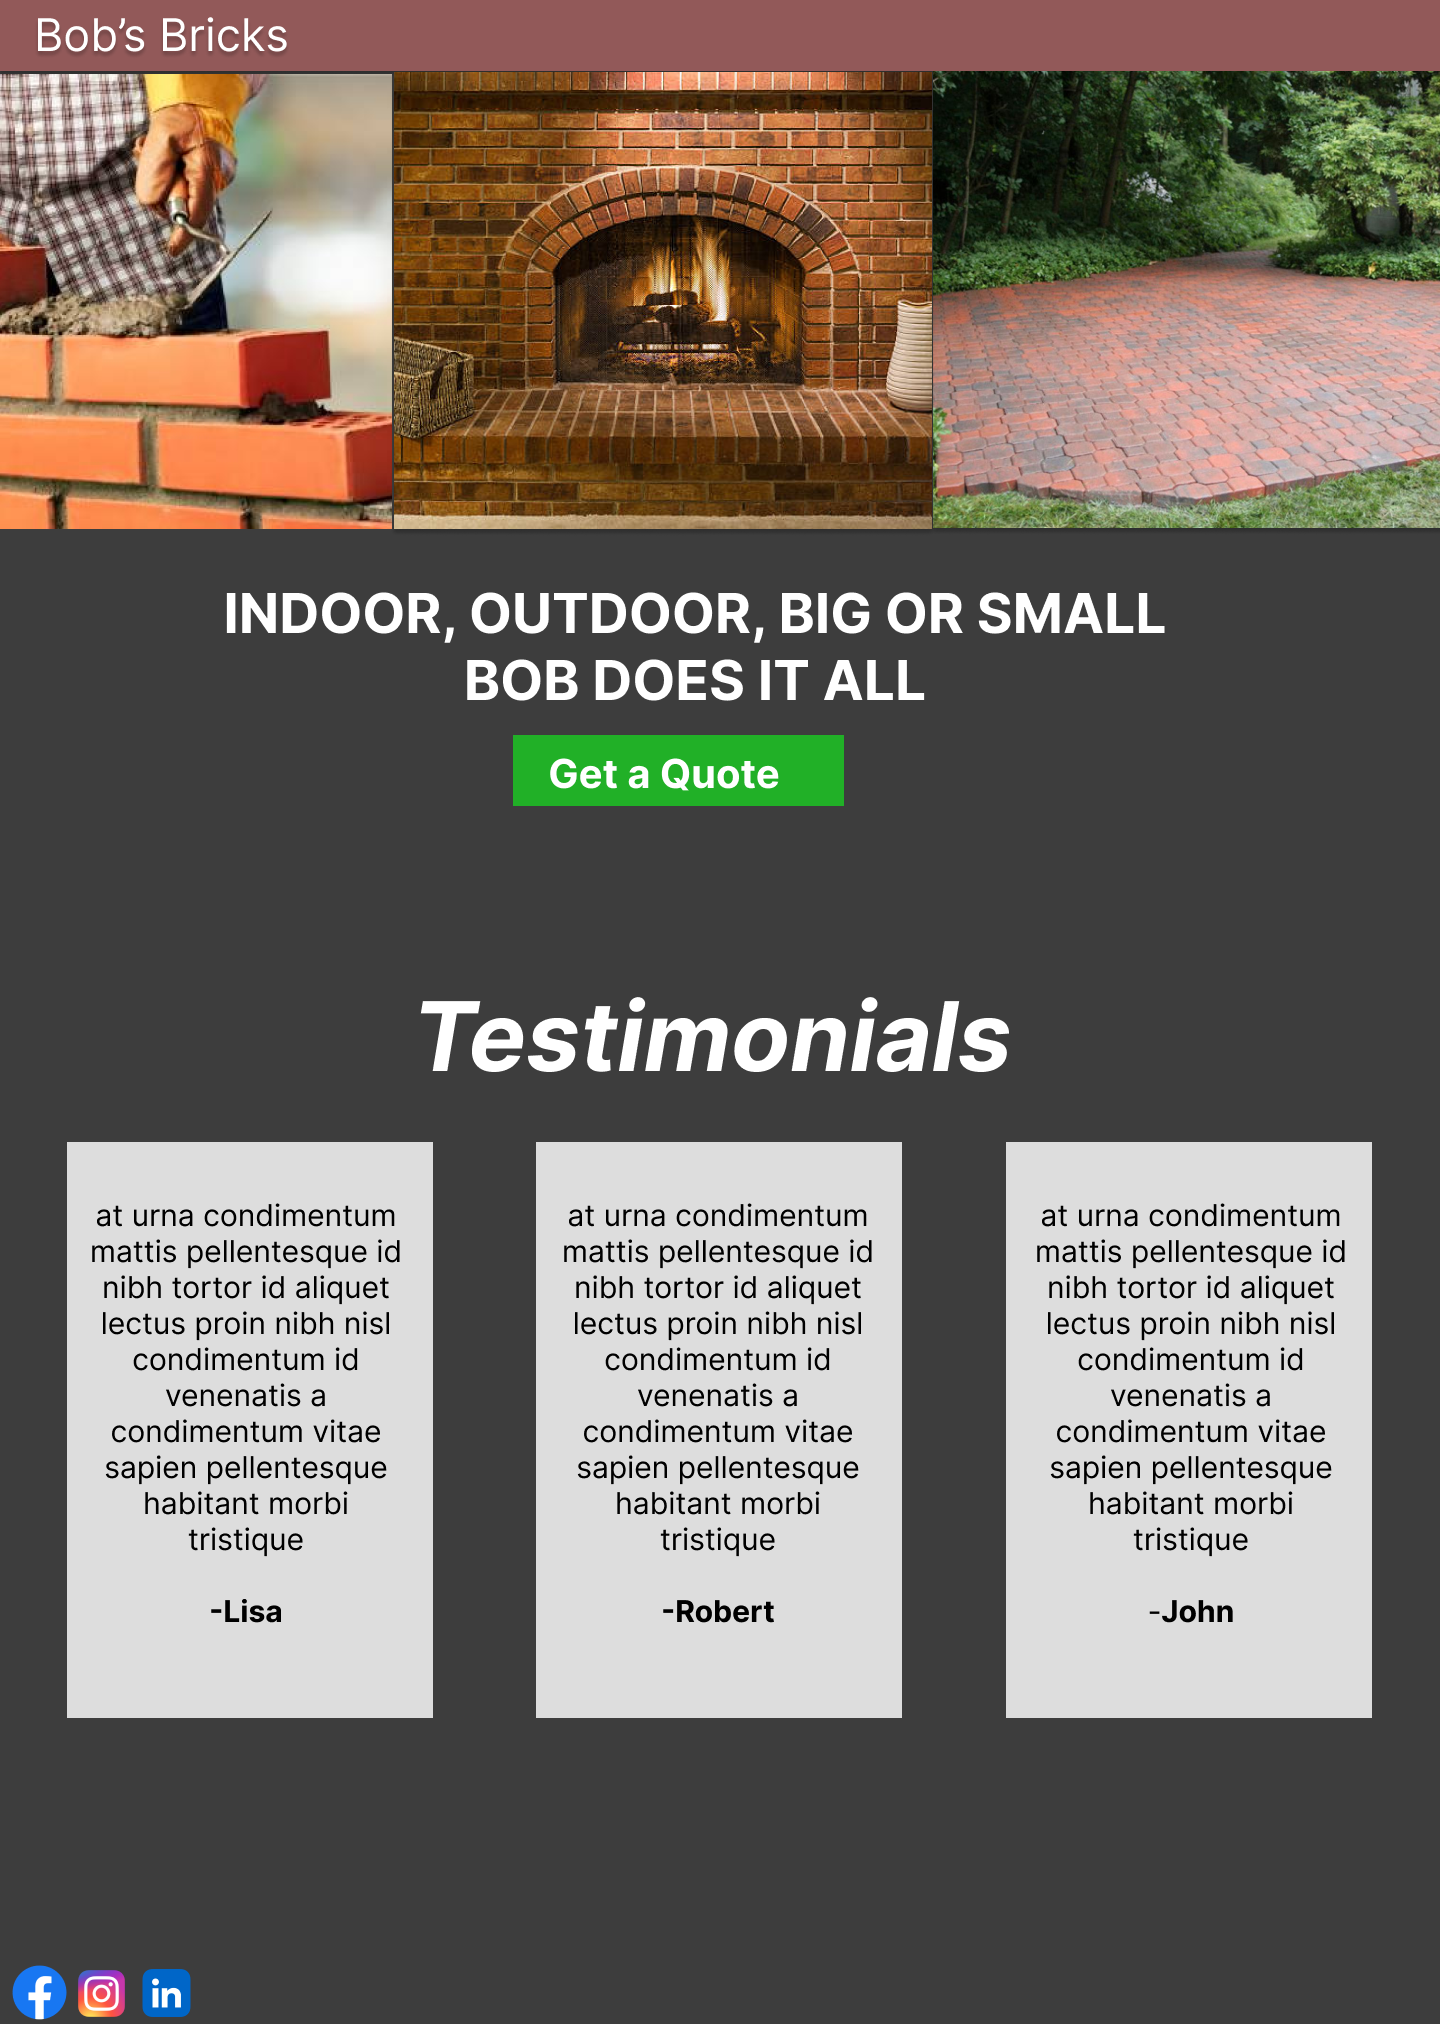
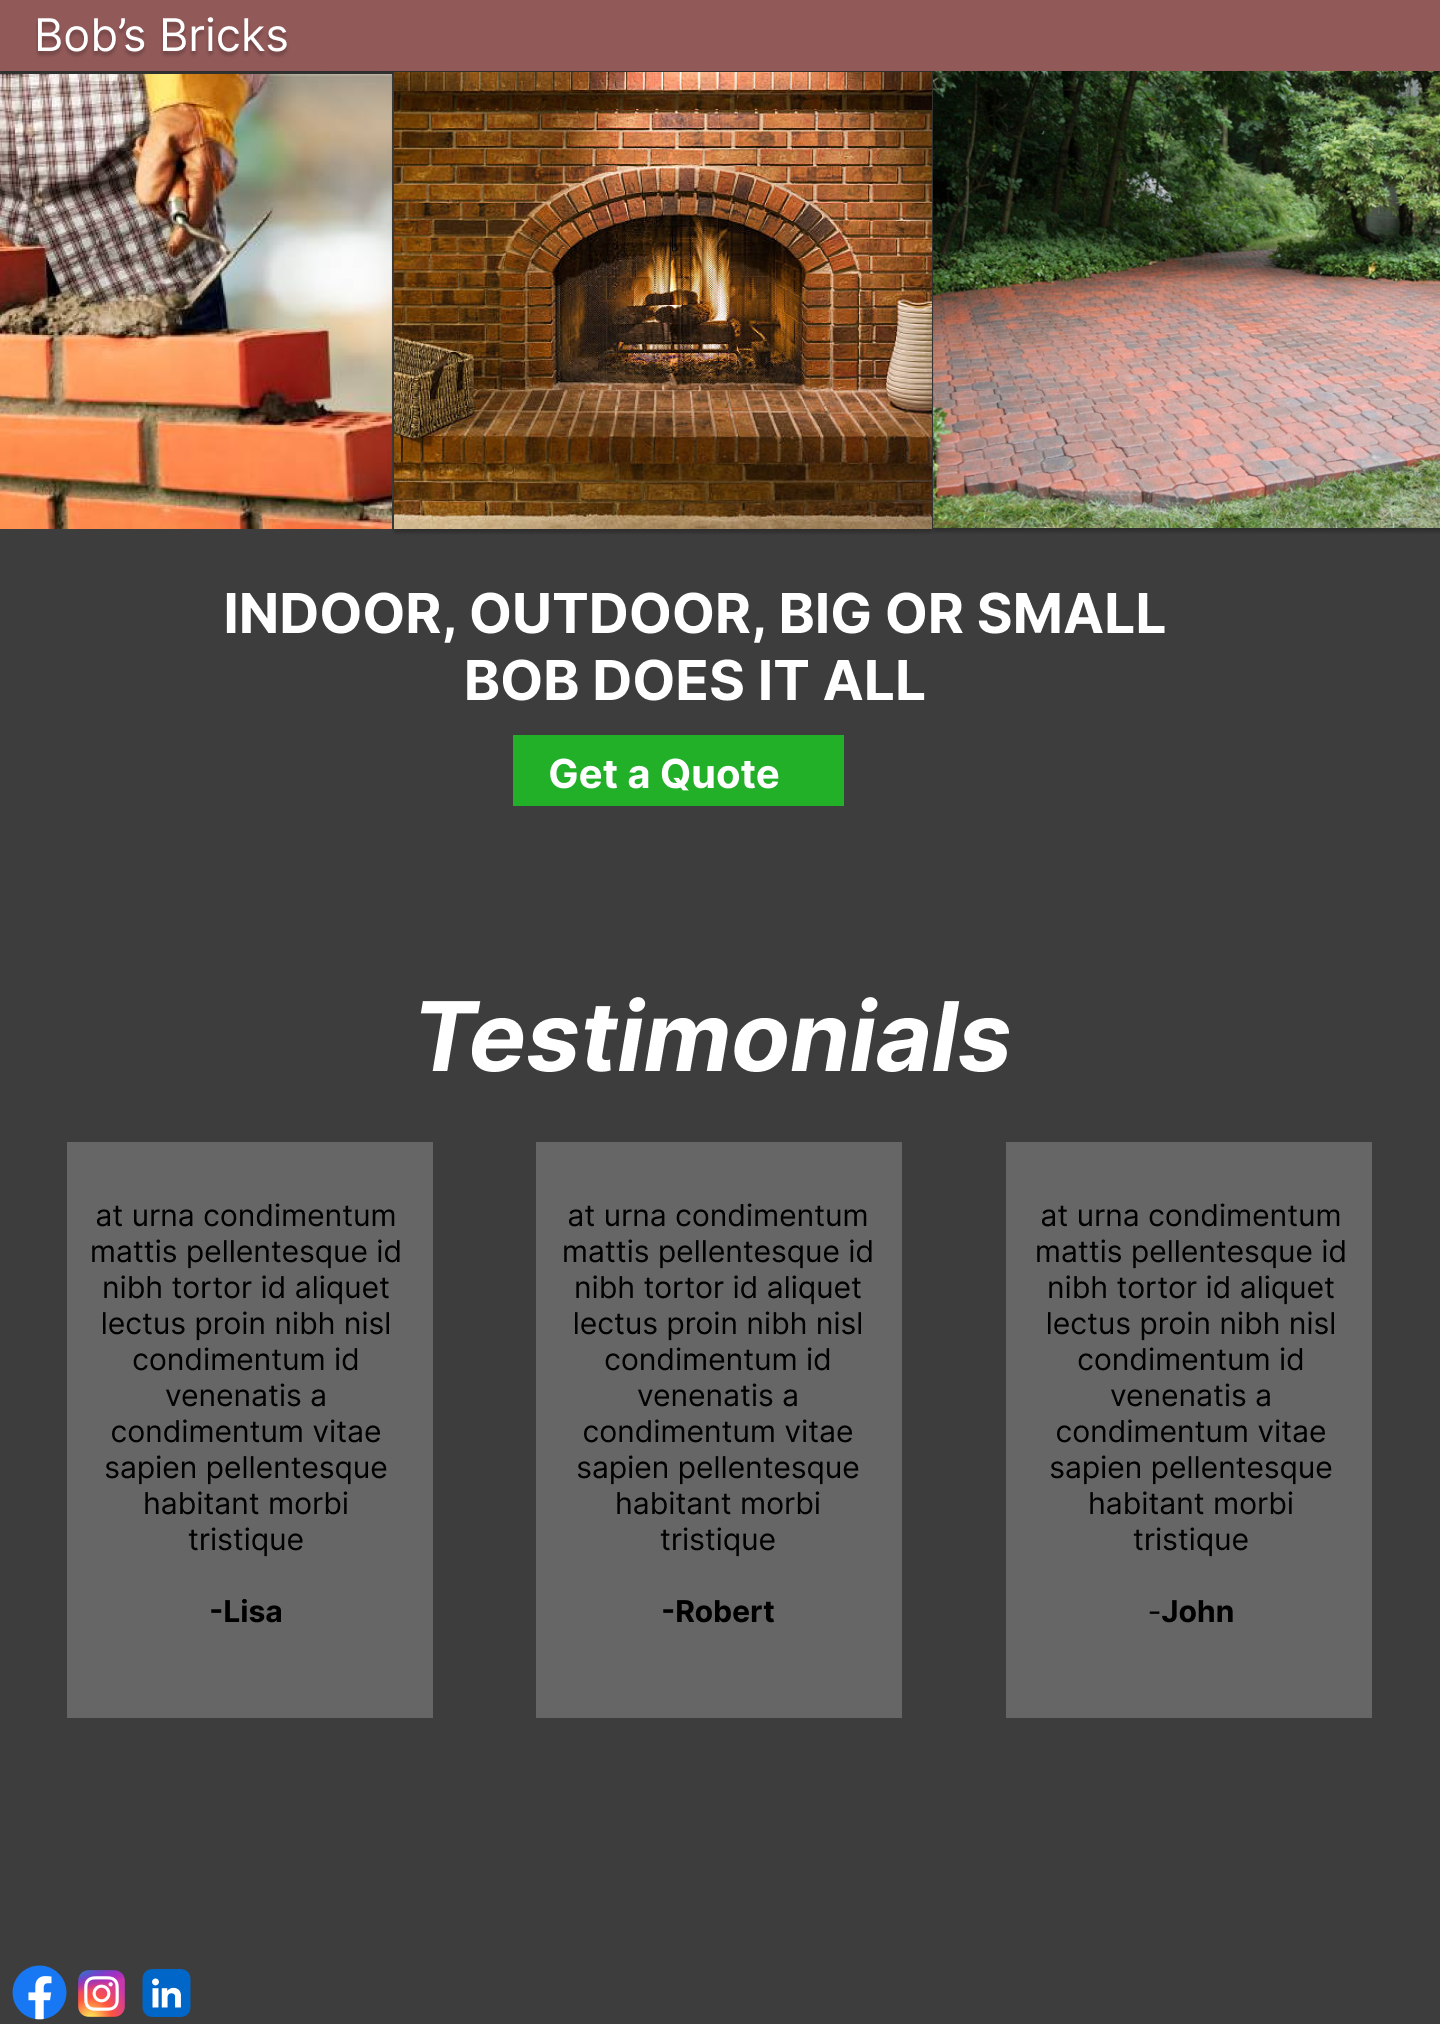
Edited design and implemented changes
Made the testimonials' backgrounds transparent in the Figma designs and adjusted the code to reflect the new designs

Changed region(s): [[0.6875, 0.5603, 0.9688, 0.8715], [0.0312, 0.5603, 0.3125, 0.8715], [0.375, 0.5603, 0.625, 0.8715]]

diff --git a/index.html b/index.html
@@ -71,9 +71,9 @@
 </div>
 
 <div class="bottom">
-    <img src="./Images/facebook.png" alt="" srcset="" id="bottom-img">
-    <img src="./Images/instagram logo.webp" alt="" srcset="" id="bottom-img">
-    <img src="./Images/linkdin.png" alt="" srcset="" id="bottom-img">
+    <a href="#"><img src="./Images/facebook.png" alt="" srcset="" id="bottom-img"></a>
+    <a href="#"> <img src="./Images/instagram logo.webp" alt="" srcset="" id="bottom-img"></a>
+    <a><img src="./Images/linkdin.png" alt="" srcset="" id="bottom-img"></a>
 </div>
 
 

diff --git a/style.css b/style.css
@@ -50,6 +50,8 @@ span{
 .tests{
     margin-top: 4rem;
     margin-bottom: 13rem;
+    margin-left: 0;
+    margin-right: 2rem;
 }
 .test{
     display: flex;
@@ -59,8 +61,7 @@ span{
     justify-content: center;
     color: black;
     font-size: 1.5rem;
-    background-color:rgba(221, 221, 221, 1);
-    margin-right:2rem;
+    background-color:rgba(221, 221, 221, 0.26);
     margin-left: 2rem;
     
 }
